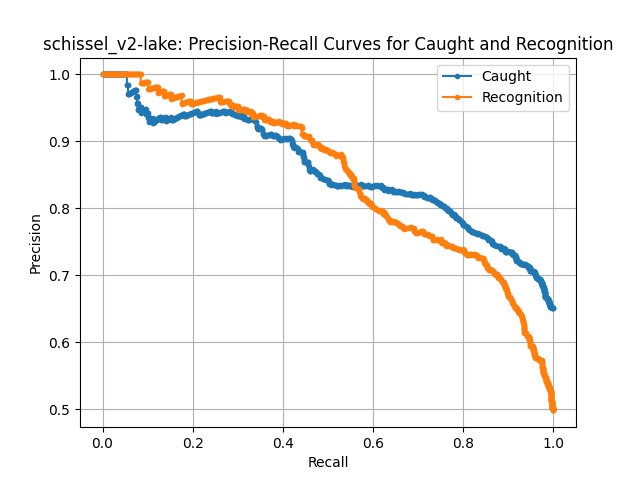
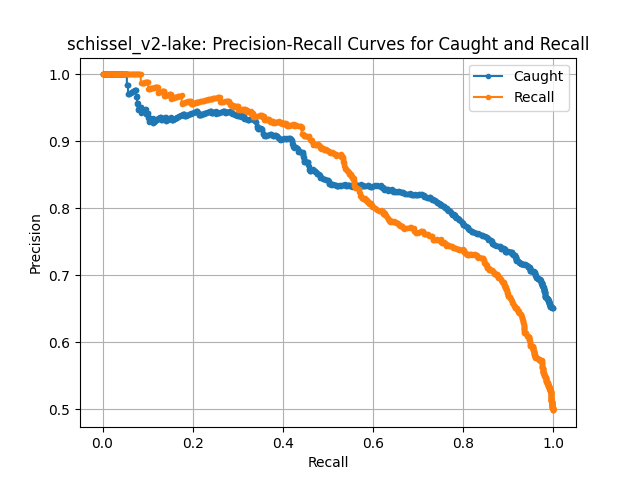
recognized to recalled

Changed region(s): [[0.0625, 0.0625, 0.9688, 0.2188]]

diff --git a/7e71ecbb7830fd69dc78ba1369a452129b88e980fdbb6d63285fbb8f912f/precision_recall_curve_for_caught_and_rec.html b/7e71ecbb7830fd69dc78ba1369a452129b88e980fdbb6d63285fbb8f912f/precision_recall_curve_for_caught_and_rec.html
@@ -4,13 +4,13 @@
 <head>
     <meta charset="UTF-8">
     <meta name="viewport" content="width=device-width, initial-scale=1.0">
-    <title>Precision Recall Curve for Caught and RECognized</title>
+    <title>Precision Recall Curve for Caught and RECalled</title>
     <link rel="stylesheet" href="../assets/styles.css">
 </head>
 
 <body>
     <header>
-        <h1>Precision Recall Curve for Caught and RECognized</h1>
+        <h1>Precision Recall Curve for Caught and RECalled</h1>
     <h3>See code at <a
             href="https://github.com/Ilyashn972/llm-narrative-analysis/blob/main/experiments/precision_recall_curve_for_caught_and_rec.py">
             precision_recall_curve_for_caught_and_rec.py</a>

diff --git a/7e71ecbb7830fd69dc78ba1369a452129b88e980fdbb6d63285fbb8f912f/index.html b/7e71ecbb7830fd69dc78ba1369a452129b88e980fdbb6d63285fbb8f912f/index.html
@@ -200,7 +200,7 @@
                 <a href="average_mbits_vs_fan_out.html"> Average mbits for Caught vs Not Caught segments </a>
             </li>
             <li>
-                <a href="precision_recall_curve_for_caught_and_rec.html"> Precision Recall Curve for Caught and RECognized </a>
+                <a href="precision_recall_curve_for_caught_and_rec.html"> Precision Recall Curve for Caught and RECalled </a>
             </li>
         </ul>
         <h4> TODO: </h4>
